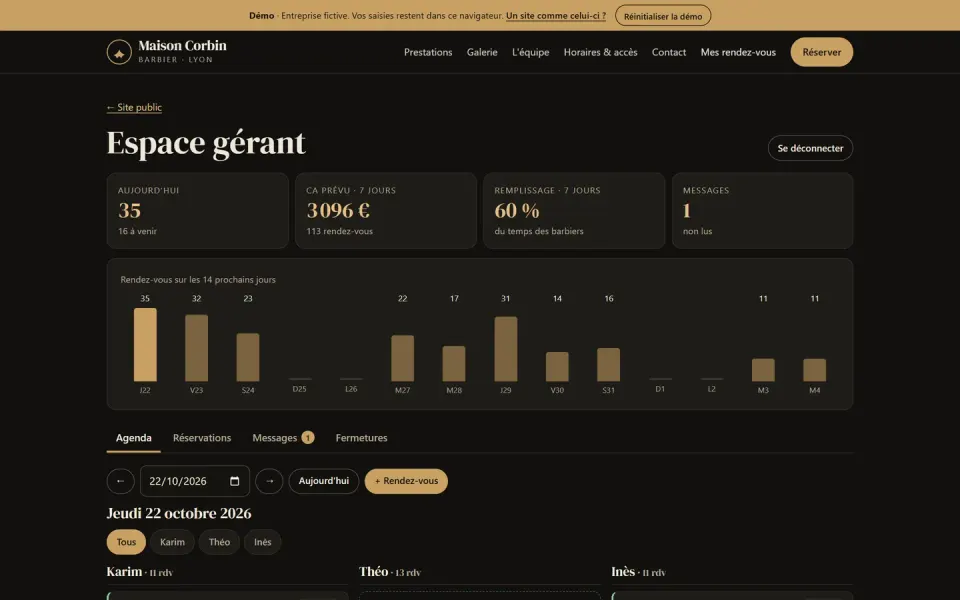
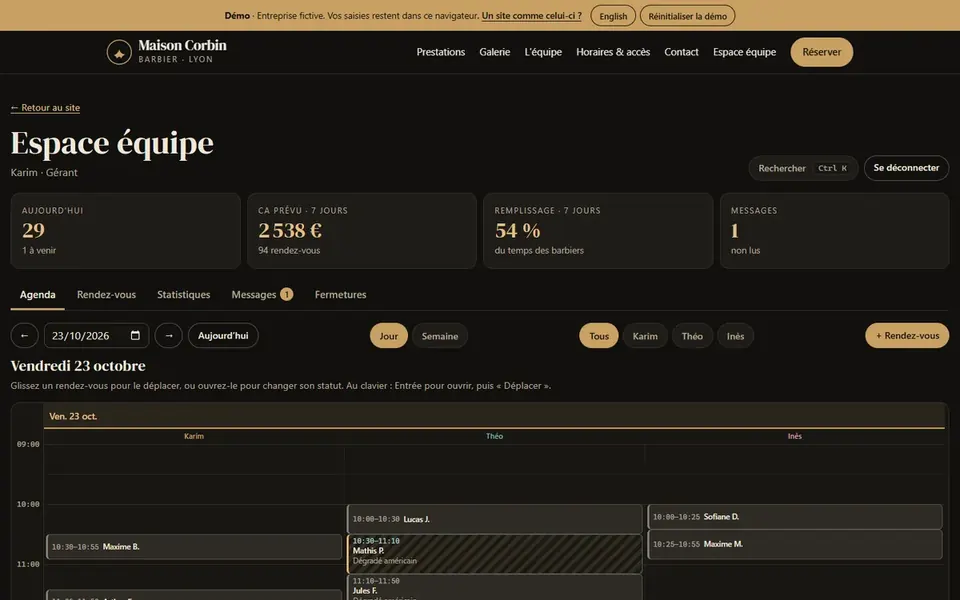
Démos web : présente les versions React et TypeScript, leurs tests et de nouvelles captures

diff --git a/index.html b/index.html
@@ -417,7 +417,7 @@
   <section class="zone" id="demos">
     <div class="zone-head">
       <div class="zone-title"><span class="n">02</span><h2>Démos web</h2></div>
-      <p class="zone-sub">Trois sites en ligne à tester sur votre téléphone. Rapides, accessibles et sécurisés par défaut : aucun script tiers, aucun traceur, saisies contrôlées. Entreprises et données fictives.</p>
+      <p class="zone-sub">Trois applications React et TypeScript en ligne, à tester sur votre téléphone. Chacune a ses tests unitaires et navigateur, une intégration continue qui bloque le déploiement au moindre échec, et aucun script tiers ni traceur. Entreprises et données fictives.</p>
     </div>
 
     <div class="pgrid demos" style="margin-top:18px">
@@ -427,9 +427,9 @@
         </a>
         <div class="pbody">
           <h3>Maison Corbin, site de barbier avec réservation</h3>
-          <p>Le site d'un barbier lyonnais : prestations, galerie, horaires et contact, avec une prise de rendez-vous en quatre étapes qui tient compte des horaires, des pauses, des jours fériés et des créneaux déjà pris. Le gérant gère son agenda par barbier, ses messages et ses fermetures.</p>
-          <ul class="proof"><li><b>4</b> étapes pour réserver, fichier agenda inclus</li><li><b>98–100</b> aux 4 scores Lighthouse</li><li><b>0</b> script tiers, cookie ou traceur</li><li><b>3</b> protections anti-spam sans captcha</li></ul>
-          <div class="tagset"><span class="tag">HTML</span><span class="tag">CSS</span><span class="tag">JavaScript</span><span class="tag">CSP stricte</span><span class="tag">Trusted Types</span><span class="tag">GitHub Pages</span></div>
+          <p>Le site d'un barbier lyonnais avec réservation en ligne et un espace équipe : agenda par barbier en glisser-déposer, nouvelles réservations reçues en direct dans l'onglet de l'équipe, statistiques et deux rôles, gérant et barbier. Français et anglais, installable, utilisable hors ligne.</p>
+          <ul class="proof"><li><b>97</b> tests unitaires, 23 scénarios navigateur</li><li><b>99–100</b> aux 4 scores Lighthouse, mesurés en ligne</li><li><b>2</b> rôles vérifiés dans les règles, pas seulement à l'écran</li><li><b>0</b> script tiers, cookie ou traceur</li></ul>
+          <div class="tagset"><span class="tag">React</span><span class="tag">TypeScript</span><span class="tag">Vite</span><span class="tag">dnd-kit</span><span class="tag">Vitest</span><span class="tag">Playwright</span><span class="tag">GitHub Actions</span><span class="tag">CSP stricte</span></div>
           <div class="actions"><a class="abtn main" href="https://barkatzineddine.github.io/demo-barbier/" target="_blank" rel="noopener">Tester la démo ↗</a><button class="abtn" type="button" data-open="demo-barbier" data-path="~/projects/demo-barbier">Détails</button><a class="abtn" href="https://github.com/Barkatzineddine/demo-barbier" target="_blank" rel="noopener">Code ↗</a></div>
         </div>
       </article>
@@ -439,9 +439,9 @@
         </a>
         <div class="pbody">
           <h3>Kaolin &amp; Cendre, boutique de céramiques</h3>
-          <p>Une boutique complète : catalogue filtrable, fiches produits avec choix de l'émail, panier, commande en trois étapes et paiement en mode test, sans aucune donnée bancaire demandée. L'administration gère produits, stocks, photos et suivi des commandes.</p>
-          <ul class="proof"><li><b>13</b> produits, 8 émaux, filtres partageables</li><li><b>3</b> étapes de commande, paiement simulé</li><li><b>98–100</b> aux 4 scores Lighthouse</li><li><b>0</b> numéro de carte demandé ou stocké</li></ul>
-          <div class="tagset"><span class="tag">HTML</span><span class="tag">CSS</span><span class="tag">JavaScript</span><span class="tag">CSP stricte</span><span class="tag">Trusted Types</span><span class="tag">GitHub Pages</span></div>
+          <p>Une boutique complète : catalogue filtrable, émail au choix qui redessine la pièce, panier, commande en trois étapes avec paiement en mode test. L'administration a un tableau des commandes en glisser-déposer, un tableau de bord et un éditeur de produits ; chaque commande arrive en direct dans l'onglet de l'atelier.</p>
+          <ul class="proof"><li><b>82</b> tests unitaires, 26 scénarios navigateur</li><li><b>98–100</b> aux 4 scores Lighthouse</li><li><b>0</b> survente : stock et total revérifiés au paiement</li><li><b>0</b> numéro de carte demandé ou stocké</li></ul>
+          <div class="tagset"><span class="tag">React</span><span class="tag">TypeScript</span><span class="tag">Vite</span><span class="tag">dnd-kit</span><span class="tag">Vitest</span><span class="tag">Playwright</span><span class="tag">GitHub Actions</span><span class="tag">CSP stricte</span></div>
           <div class="actions"><a class="abtn main" href="https://barkatzineddine.github.io/demo-boutique/" target="_blank" rel="noopener">Tester la démo ↗</a><button class="abtn" type="button" data-open="demo-boutique" data-path="~/projects/demo-boutique">Détails</button><a class="abtn" href="https://github.com/Barkatzineddine/demo-boutique" target="_blank" rel="noopener">Code ↗</a></div>
         </div>
       </article>
@@ -451,9 +451,9 @@
         </a>
         <div class="pbody">
           <h3>Morel Agencement, devis, factures et portail client</h3>
-          <p>Un outil de gestion pour artisan : clients, devis convertis en factures, export PDF généré dans le navigateur, relances, suivi des paiements et graphiques du chiffre d'affaires. Le client accepte ses devis en ligne depuis son portail, avec une signature horodatée.</p>
-          <ul class="proof"><li><b>PDF</b> générés sans bibliothèque, mentions légales</li><li><b>SHA-256</b> empreinte de chaque devis signé</li><li><b>98–100</b> aux 4 scores Lighthouse</li><li><b>2</b> thèmes, clair et sombre</li></ul>
-          <div class="tagset"><span class="tag">HTML</span><span class="tag">CSS</span><span class="tag">JavaScript</span><span class="tag">CSP stricte</span><span class="tag">Trusted Types</span><span class="tag">GitHub Pages</span></div>
+          <p>Devis et factures pour artisan : éditeur de lignes en glisser-déposer, factures conformes aux règles françaises, PDF générés dans le navigateur, relances et tableau de bord. Le client signe ses devis dans son portail privé et le bureau le voit en direct.</p>
+          <ul class="proof"><li><b>SHA-256</b> preuve de signature, vérifiée à chaque affichage</li><li><b>PDF</b> générés sans bibliothèque, mentions légales</li><li><b>80</b> tests unitaires, 20 scénarios navigateur</li><li><b>97–100</b> aux 4 scores Lighthouse</li></ul>
+          <div class="tagset"><span class="tag">React</span><span class="tag">TypeScript</span><span class="tag">Vite</span><span class="tag">dnd-kit</span><span class="tag">Vitest</span><span class="tag">Playwright</span><span class="tag">GitHub Actions</span><span class="tag">CSP stricte</span></div>
           <div class="actions"><a class="abtn main" href="https://barkatzineddine.github.io/demo-facturation/" target="_blank" rel="noopener">Tester la démo ↗</a><button class="abtn" type="button" data-open="demo-facturation" data-path="~/projects/demo-facturation">Détails</button><a class="abtn" href="https://github.com/Barkatzineddine/demo-facturation" target="_blank" rel="noopener">Code ↗</a></div>
         </div>
       </article>
@@ -920,51 +920,53 @@
 
 <template id="t-demo-barbier">
   <h3>Maison Corbin, site de barbier avec réservation</h3>
-  <p>Site d'un barbier lyonnais (fictif) : prestations et tarifs, galerie, équipe, horaires avec statut « ouvert maintenant », plan et formulaire de contact. La réservation se fait en quatre étapes (prestation, barbier, jour et créneau, coordonnées) et donne un code et un fichier agenda. Les créneaux tiennent compte des horaires, des pauses de chaque barbier, des jours fériés calculés, des fermetures exceptionnelles et des rendez-vous déjà pris. L'espace gérant affiche l'agenda par barbier, les indicateurs de la semaine, les messages et l'export CSV.</p>
-  <div class="tagset"><span class="tag">HTML</span><span class="tag">CSS</span><span class="tag">JavaScript</span><span class="tag">CSP stricte</span><span class="tag">CSP stricte</span><span class="tag">Trusted Types</span><span class="tag">GitHub Pages</span></div>
-  <div class="run"><b>En ligne sur GitHub Pages</b> : parcours complet testé dans Chrome sur l'URL publique (réservation, annulation, espace gérant, contact), sans erreur dans la console. Code gérant de la démo : <b>2468</b>.</div>
-  <img src="img/demo-barbier-agenda.webp" alt="Espace gérant : indicateurs, graphique des 14 prochains jours et agenda par barbier" loading="lazy">
+  <p>Site d'un barbier lyonnais (fictif) avec une réservation en quatre étapes calculée par un moteur de disponibilités (horaires, pauses de chaque barbier, jours fériés calculés, fermetures, créneaux déjà pris) et des comptes clients facultatifs. L'espace équipe affiche l'agenda en vue jour ou semaine : un rendez-vous se déplace à la souris ou au clavier, les déplacements impossibles sont refusés et chaque déplacement peut être annulé. Les nouvelles réservations arrivent en direct dans l'onglet de l'équipe, et le client est prévenu quand son rendez-vous change. Statistiques, recherche Ctrl K, français et anglais, installable et utilisable hors ligne.</p>
+  <div class="tagset"><span class="tag">React 19</span><span class="tag">TypeScript strict</span><span class="tag">Vite</span><span class="tag">Zustand</span><span class="tag">Zod</span><span class="tag">dnd-kit</span><span class="tag">Vitest</span><span class="tag">Playwright</span><span class="tag">axe</span><span class="tag">Lighthouse CI</span><span class="tag">GitHub Actions</span><span class="tag">CSP stricte</span><span class="tag">Trusted Types</span></div>
+  <div class="run"><b>En ligne sur GitHub Pages</b> : chaque push passe le lint, la vérification des types, 97 tests unitaires, 23 scénarios Playwright sur ordinateur et mobile (dont des scans d'accessibilité axe) et Lighthouse CI avant d'être déployé. Les comptes de démonstration (gérant, barbier) sont indiqués sur la page de connexion de l'équipe.</div>
+  <img src="img/demo-barbier-agenda.webp" alt="Espace équipe : indicateurs de la semaine et agenda du jour avec trois barbiers côte à côte" loading="lazy">
   <ul class="facts">
-    <li><b>Sécurité</b> : CSP stricte et Trusted Types (aucun <code>innerHTML</code>), aucun script tiers ni traceur, anti-spam sans captcha (champ piège, délai minimal, limite d'envois), données vérifiées au chargement.</li>
-    <li><b>Qualité</b> : JavaScript sans framework ni dépendance, accessible au clavier, données structurées schema.org pour le référencement local, 98 à 100 aux quatre scores Lighthouse sur mobile.</li>
+    <li><b>Ingénierie</b> : état partagé entre onglets par BroadcastChannel, données validées par schéma au chargement et à chaque message, règles métier et permissions écrites en fonctions pures et testées, service worker généré au build.</li>
+    <li><b>Sécurité</b> : CSP stricte et Trusted Types, mots de passe PBKDF2 avec blocage après cinq échecs, anti-spam sans captcha, aucun script tiers ni traceur.</li>
   </ul>
   <div class="shots2">
     <figure><img src="img/demo-barbier.webp" alt="Accueil du site Maison Corbin : photo d'un barbier au travail et bouton Réserver un créneau" loading="lazy"><figcaption>Accueil</figcaption></figure>
-    <figure><img src="img/demo-barbier-mobile.webp" alt="Choix du jour et du créneau sur téléphone" loading="lazy"><figcaption>Sur téléphone</figcaption></figure>
+    <figure><img src="img/demo-barbier-mobile.webp" alt="Prise de rendez-vous sur téléphone" loading="lazy"><figcaption>Sur téléphone</figcaption></figure>
   </div>
   <div style="display:flex;flex-wrap:wrap;gap:8px"><a class="abtn main" href="https://barkatzineddine.github.io/demo-barbier/" target="_blank" rel="noopener">Tester la démo en ligne ↗</a><a class="abtn main" href="https://github.com/Barkatzineddine/demo-barbier" target="_blank" rel="noopener">Code source sur GitHub ↗</a></div>
 </template>
 
 <template id="t-demo-boutique">
   <h3>Kaolin &amp; Cendre, boutique de céramiques</h3>
-  <p>Boutique d'un atelier de céramique nantais (fictif) : catalogue avec recherche et filtres partageables par lien, fiches produits où le choix de l'émail redessine la pièce, panier, commande en trois étapes (coordonnées, livraison, paiement en mode test) et suivi des commandes. L'administration gère les produits avec aperçu en direct, les stocks, les photos et le traitement des commandes jusqu'au remboursement.</p>
-  <div class="tagset"><span class="tag">HTML</span><span class="tag">CSS</span><span class="tag">JavaScript</span><span class="tag">SVG</span><span class="tag">CSP stricte</span><span class="tag">Trusted Types</span><span class="tag">GitHub Pages</span></div>
-  <div class="run"><b>En ligne sur GitHub Pages</b> : parcours d'achat complet, refus de paiement, administration et import de photo testés dans Chrome sur l'URL publique. Code administrateur de la démo : <b>1357</b>. Code promo : <b>BIENVENUE10</b>.</div>
-  <img src="img/demo-boutique-produit.webp" alt="Fiche produit : vase Dune en terracotta avec choix de l'émail et de la quantité" loading="lazy">
+  <p>Boutique d'un atelier de céramique nantais (fictif) : recherche insensible aux accents et filtres partageables par lien, pièces dessinées en SVG selon leur forme et l'émail choisi, panier revérifié à chaque lecture contre le catalogue, commande en trois étapes avec paiement en mode test, suivi des commandes mis à jour en direct. L'administration a deux rôles : la gérante (tableau de bord, catalogue, remboursements, export) et le préparateur, qui ne voit que le tableau des commandes en glisser-déposer.</p>
+  <div class="tagset"><span class="tag">React 19</span><span class="tag">TypeScript strict</span><span class="tag">Vite</span><span class="tag">Zustand</span><span class="tag">Zod</span><span class="tag">dnd-kit</span><span class="tag">SVG</span><span class="tag">Vitest</span><span class="tag">Playwright</span><span class="tag">axe</span><span class="tag">Lighthouse CI</span><span class="tag">GitHub Actions</span><span class="tag">CSP stricte</span><span class="tag">Trusted Types</span></div>
+  <div class="run"><b>En ligne sur GitHub Pages</b> : chaque push passe le lint, la vérification des types, 82 tests unitaires, 26 scénarios Playwright sur ordinateur et mobile (dont des scans d'accessibilité axe) et Lighthouse CI avant d'être déployé. Les comptes de démonstration (gérante, préparateur) sont indiqués sur la page d'administration. Code promo : <b>BIENVENUE10</b>.</div>
+  <img src="img/demo-boutique-board.webp" alt="Tableau des commandes : colonnes payée, en préparation, expédiée et livrée, avec des cartes déplaçables" loading="lazy">
   <ul class="facts">
     <li><b>Paiement</b> : aucun numéro de carte n'est demandé ; refus bancaire simulable. En production, paiement délégué à un prestataire certifié PCI-DSS.</li>
-    <li><b>Sécurité</b> : CSP stricte et Trusted Types, stocks et totaux recalculés à chaque étape, photos importées ré-encodées dans le navigateur (métadonnées GPS supprimées), export CSV protégé contre l'injection de formules.</li>
+    <li><b>Règles</b> : montants en centimes, stock et total revérifiés juste avant la commande (refus plutôt que survente), permissions vérifiées dans les fonctions d'état et pas seulement à l'écran.</li>
+    <li><b>Sécurité</b> : CSP stricte et Trusted Types, photos importées ré-encodées dans le navigateur (métadonnées GPS supprimées), export CSV protégé contre l'injection de formules.</li>
   </ul>
   <div class="shots2">
     <figure><img src="img/demo-boutique.webp" alt="Accueil de la boutique Kaolin et Cendre : titre, boutons et étagère de céramiques illustrées" loading="lazy"><figcaption>Accueil</figcaption></figure>
-    <figure><img src="img/demo-boutique-mobile.webp" alt="Étape de paiement en mode test sur téléphone" loading="lazy"><figcaption>Sur téléphone</figcaption></figure>
+    <figure><img src="img/demo-boutique-mobile.webp" alt="Fiche produit sur téléphone" loading="lazy"><figcaption>Sur téléphone</figcaption></figure>
   </div>
   <div style="display:flex;flex-wrap:wrap;gap:8px"><a class="abtn main" href="https://barkatzineddine.github.io/demo-boutique/" target="_blank" rel="noopener">Tester la démo en ligne ↗</a><a class="abtn main" href="https://github.com/Barkatzineddine/demo-boutique" target="_blank" rel="noopener">Code source sur GitHub ↗</a></div>
 </template>
 
 <template id="t-demo-facturation">
   <h3>Morel Agencement, devis, factures et portail client</h3>
-  <p>Application de gestion pour une menuiserie (fictive) : clients, devis convertis en factures, suivi des paiements, relances et tableau de bord du chiffre d'affaires. Le client dispose d'un portail où il accepte ses devis avec une signature horodatée, télécharge ses PDF et règle ses factures (paiement simulé). Thèmes clair et sombre.</p>
-  <div class="tagset"><span class="tag">HTML</span><span class="tag">CSS</span><span class="tag">JavaScript</span><span class="tag">PDF</span><span class="tag">CSP stricte</span><span class="tag">Trusted Types</span><span class="tag">GitHub Pages</span></div>
-  <div class="run"><b>En ligne sur GitHub Pages</b> : devis, signature dans le portail, facture, PDF, paiement, relance et export CSV testés dans Chrome sur l'URL publique.</div>
-  <img src="img/demo-facturation-portail.webp" alt="Portail client : devis à signer avec nom et case « Bon pour accord »" loading="lazy">
+  <p>Outil de devis et factures pour une menuiserie bordelaise (fictive). Les devis se composent ligne par ligne (catalogue, unités, TVA à 20, 10 ou 5,5 %, lignes réordonnées à la souris ou au clavier) puis partent chez le client, qui les signe ou les refuse depuis son portail privé : le bureau le voit en direct. Un devis accepté devient une facture numérotée à l'émission, figée, exportée en PDF, encaissée et relancée. Tableau de bord sur 12 mois, deux rôles (gérant, comptable), français et anglais, thèmes clair et sombre, utilisable hors ligne.</p>
+  <div class="tagset"><span class="tag">React 19</span><span class="tag">TypeScript strict</span><span class="tag">Vite</span><span class="tag">Zustand</span><span class="tag">Zod</span><span class="tag">dnd-kit</span><span class="tag">PDF</span><span class="tag">Vitest</span><span class="tag">Playwright</span><span class="tag">axe</span><span class="tag">Lighthouse CI</span><span class="tag">GitHub Actions</span><span class="tag">CSP stricte</span><span class="tag">Trusted Types</span></div>
+  <div class="run"><b>En ligne sur GitHub Pages</b> : chaque push passe le lint, la vérification des types, 80 tests unitaires, 20 scénarios Playwright sur ordinateur et mobile (signature dans un second onglet, PDF téléchargé, devis falsifié après signature, scans d'accessibilité axe) et Lighthouse CI avant d'être déployé. Les comptes de démonstration (gérant, comptable) sont indiqués sur la page de connexion.</div>
+  <img src="img/demo-facturation-preuve.webp" alt="Devis accepté et sa preuve d'acceptation : empreinte SHA-256 vérifiée, le devis n'a pas été modifié depuis la signature" loading="lazy">
   <ul class="facts">
-    <li><b>PDF sans bibliothèque</b> : générateur PDF écrit pour le projet (polices Helvetica, accents et symbole €, tableaux sur plusieurs pages), avec les mentions obligatoires d'une facture française.</li>
-    <li><b>Règles et sécurité</b> : numérotation chronologique sans trou, facture émise non modifiable, empreinte SHA-256 de chaque devis accepté, liens de portail non devinables, CSP stricte et Trusted Types.</li>
+    <li><b>Preuve de signature</b> : empreinte SHA-256 du numéro, des lignes, du total, du signataire et de l'heure, recalculée à chaque affichage ; un devis modifié après signature est signalé.</li>
+    <li><b>PDF sans bibliothèque</b> : générateur PDF 1.4 écrit pour le projet, avec les mentions obligatoires d'une facture française (SIRET, pénalités de retard, indemnité de 40 €).</li>
+    <li><b>Règles et sécurité</b> : numérotation chronologique sans trou, facture émise non modifiable, rôles vérifiés dans les règles, liens de portail non devinables et révocables, CSP stricte et Trusted Types.</li>
   </ul>
   <div class="shots2">
     <figure><img src="img/demo-facturation.webp" alt="Tableau de bord de Morel Agencement : chiffre d'affaires encaissé, graphique mensuel et meilleurs clients" loading="lazy"><figcaption>Tableau de bord</figcaption></figure>
-    <figure><img src="img/demo-facturation-mobile.webp" alt="Édition d'un devis sur téléphone, thème sombre" loading="lazy"><figcaption>Sur téléphone</figcaption></figure>
+    <figure><img src="img/demo-facturation-mobile.webp" alt="Édition d'un devis sur téléphone" loading="lazy"><figcaption>Sur téléphone</figcaption></figure>
   </div>
   <div style="display:flex;flex-wrap:wrap;gap:8px"><a class="abtn main" href="https://barkatzineddine.github.io/demo-facturation/" target="_blank" rel="noopener">Tester la démo en ligne ↗</a><a class="abtn main" href="https://github.com/Barkatzineddine/demo-facturation" target="_blank" rel="noopener">Code source sur GitHub ↗</a></div>
 </template>
